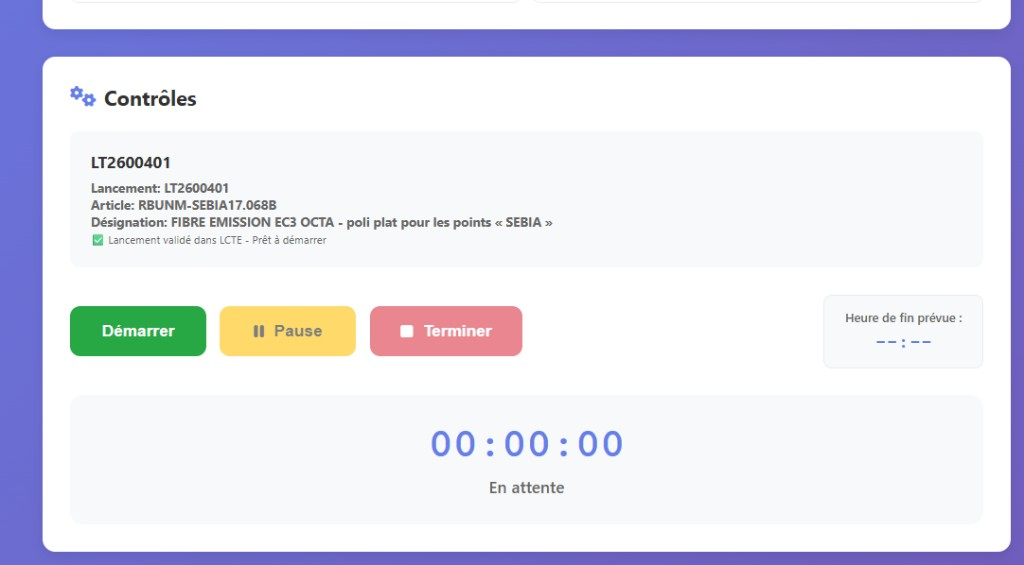
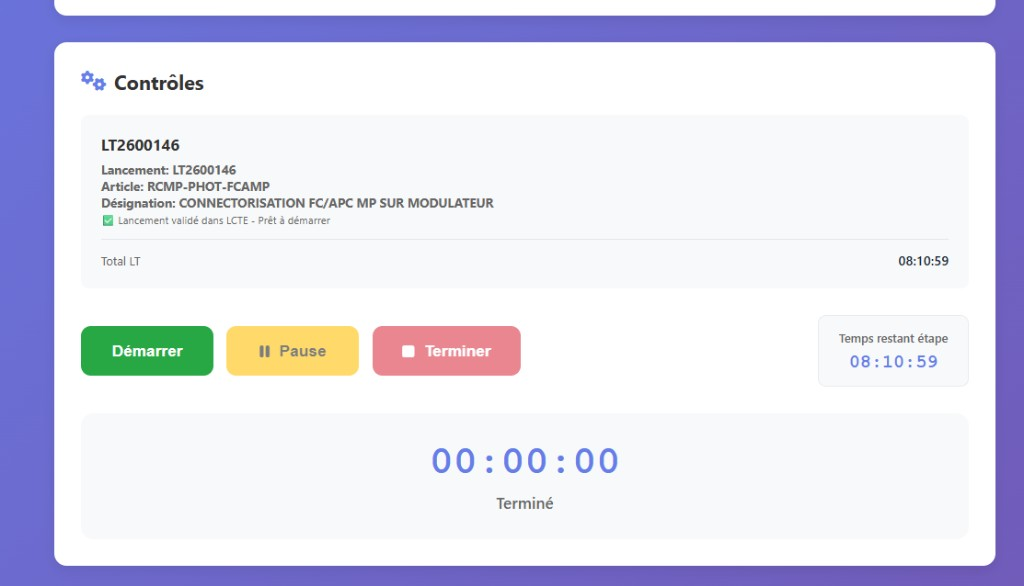
docs: mettre a jour captures avec Total LT et temps restant etape

diff --git a/docs/web/index.html b/docs/web/index.html
@@ -440,17 +440,18 @@
           <h3>4. Lire le détail dans la section Contrôles</h3>
           <p>
             Après la validation du LT, la section Contrôles affiche le détail du lancement :
-            numéro LT, article, désignation, et un message du type
-            « Lancement validé… Prêt à démarrer ». C’est le moment de vérifier que vous êtes
-            bien sur le bon travail avant de lancer le chronomètre.
+            numéro LT, article, désignation, le message
+            « Lancement validé… Prêt à démarrer », ainsi que le <strong>Total LT</strong>
+            (temps restant global) et l’encadré <strong>Temps restant étape</strong> à droite
+            des boutons.
           </p>
           <span class="step-ok-label">Quand ça marche</span>
           <figure class="step-shot">
-            <img src="images/operateur-04-controles.png" alt="Section Contrôles" loading="lazy">
+            <img src="images/operateur-04-controles.png" alt="Section Contrôles avec temps restant" loading="lazy">
             <figcaption>
-              Contrôles OK : le détail du LT est visible, et les boutons Démarrer / Pause /
-              Terminer sont prêts. Le <strong>temps restant</strong> apparaît juste après
-              (voir étape suivante).
+              Exemple <strong>LT2600146</strong> : détail du LT, ligne <strong>Total LT</strong>
+              (ex. 08:10:59), boutons Démarrer / Pause / Terminer, et encadré
+              <strong>Temps restant étape</strong> à droite (même durée si une seule phase).
             </figcaption>
           </figure>
           <div class="step-fail">
@@ -499,9 +500,9 @@
           <figure class="step-shot">
             <img src="images/operateur-10-temps-restant.png" alt="Temps restant LT et étape" loading="lazy">
             <figcaption>
-              Exemple <strong>LT2600888</strong> : <strong>Total LT</strong> et
-              <strong>Temps restant étape</strong> (ici identiques car une seule phase).
-              À droite : l’encadré « Temps restant étape » avec la durée (ex. 04:19:12).
+              Exemple <strong>LT2600146</strong> : <strong>Total LT</strong> sous le détail du
+              lancement, <strong>Temps restant étape</strong> dans l’encadré à droite des
+              boutons (ici 08:10:59 — une seule phase, les deux valeurs sont identiques).
             </figcaption>
           </figure>
           <div class="step-fail">
@@ -592,14 +593,21 @@
           </p>
           <span class="step-ok-label">Quand ça marche</span>
           <figure class="step-shot">
-            <img src="images/operateur-05-boutons-attente.png" alt="Avant de démarrer" loading="lazy">
-            <figcaption>Statut En attente : cliquez sur <strong>Démarrer</strong> (vert) pour lancer le temps.</figcaption>
+            <img src="images/operateur-05-boutons-attente.png" alt="Contrôles avant démarrage" loading="lazy">
+            <figcaption>
+              Avant <strong>Démarrer</strong> : le chronomètre est à 00:00:00 (statut
+              « En attente »). Le <strong>Total LT</strong> et le
+              <strong>Temps restant étape</strong> sont déjà visibles pour vérifier la gamme
+              ERP avant de lancer le temps.
+            </figcaption>
           </figure>
           <figure class="step-shot">
-            <img src="images/operateur-06-en-cours.png" alt="En cours" loading="lazy">
+            <img src="images/operateur-06-en-cours.png" alt="Contrôles en cours ou terminé" loading="lazy">
             <figcaption>
-              Statut En cours : le chronomètre tourne, et le pointage apparaît dans
-              Mon Historique.
+              Pendant ou après le travail : le chronomètre affiche la durée de la session
+              (ex. <strong>LT2600888</strong> — 04:19:12 restant étape). Les indicateurs
+              <strong>Total LT</strong> / <strong>Temps restant étape</strong> restent affichés
+              tant que le LT est validé dans Contrôles.
             </figcaption>
           </figure>
           <div class="step-fail">
